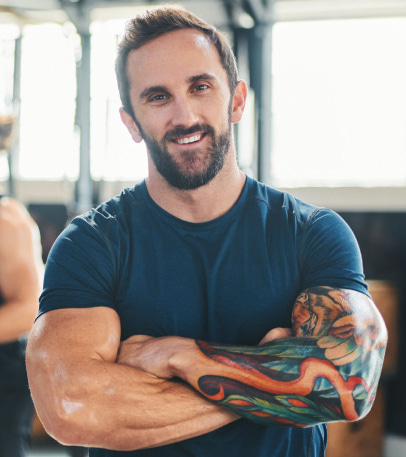
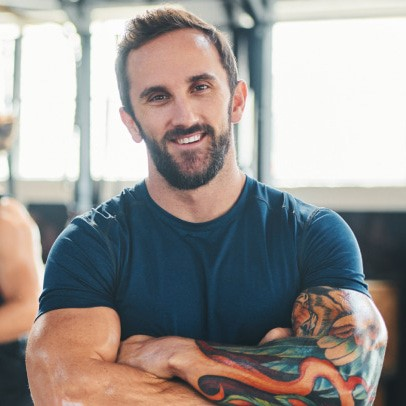
realizando diseño responsive

diff --git a/Entrenadores.html b/Entrenadores.html
@@ -5,7 +5,7 @@
   <meta charset="UTF-8">
   <meta name="viewport" content="width=device-width, initial-scale=1">
   <title>Entrenadores</title>
-  <link rel="stylesheet" href="styles.css">
+  <link rel="stylesheet" href="styleEntrenadores.css">
 
   <link href="https://cdn.jsdelivr.net/npm/bootstrap@5.2.3/dist/css/bootstrap.min.css" rel="stylesheet"
     integrity="sha384-rbsA2VBKQhggwzxH7pPCaAqO46MgnOM80zW1RWuH61DGLwZJEdK2Kadq2F9CUG65" crossorigin="anonymous">
@@ -51,25 +51,28 @@
 <br>
   <h2 style="text-align: center; color:grey;">Entrenadores</h2>
   <br>
-
-  <table style="margin: 0 auto;">
-      <td>
-        <div>
-          <a href="Perfil1.html">
-            <img src="img/trainer3.jpg" width="250px" height="250px" alt="">
-          </a>
-          <p style="color: white; text-align: center;">Juan Jose de Luque</p>
-        </div>     
-      </td>
-      <td>
-        <div class="ex1">
-          <a href="Perfil5.html">
-            <img src="img/fotoperfil.jpg" width="250px" height="250px" alt="">
-          </a>
-          <p style="color: white; text-align: center;">Blade Rocco Steeve Maverick</p>
-        </div>  
-      </td>
-  </table>
+  <div class="seccionTrainer">
+    <div class="row row-cols-1 row-cols-md-2 g-4">
+      <div class="col">
+        <div class="card">
+          <img src="img/trainer3.jpg" class="card-img-top" alt="...">
+          <div class="card-body">
+            <h5 class="card-title">Juan Jose de Luque</h5>
+            <p class="card-text">Entrenador de gimnasio apasionado y experimentado, está listo para ayudarte a alcanzar tus metas de fitness. Descubre cómo su enfoque personalizado y su compromiso pueden transformar tu vida.</p>
+          </div>
+        </div>
+      </div>
+      <div class="col">
+        <div class="card">
+          <img src="img/fotoperfil.jpg" class="card-img-top" alt="...">
+          <div class="card-body">
+            <h5 class="card-title">Blade Rocco Steeve Maverick</h5>
+            <p class="card-text">Entrenador de gimnasio con visión, está listo para llevarte al siguiente nivel de fitness. Su enfoque innovador y energía contagiosa te inspirarán a superar tus límites.</p>
+          </div>
+        </div>
+      </div>
+    </div>
+  </div>
 
 </body>
 <footer class="dark-footer">

diff --git a/styles.css b/styles.css
@@ -15,13 +15,18 @@ body {
   width: 100%;
 }
 
-.row-1{
-  padding: 5px;
+.row-1 {
+  padding-top: 10px;
+  padding-right: 5px;
+  padding-bottom: 5px;
+  padding-left: 5px;
+  border-radius: 8px;
 }
 
 .Contador {
-  text-align: center; /* Centra horizontalmente en la página */
-  margin-top: 10%; 
+  text-align: center;
+  /* Centra horizontalmente en la página */
+  margin-top: 9%;
   margin-left: 20vw;
   margin-right: 20vw;
   margin-bottom: 10vw;
@@ -40,6 +45,7 @@ body {
   background-color: white;
   margin: 10px;
   height: 80px;
+  border-radius: 10px;
 }
 
 .af {
@@ -58,4 +64,48 @@ body {
 
 .container {
   position: relative;
+}
+
+/*PANTALLAS DE CELULAR*/
+@media screen and (max-width:767px) {
+
+  body {
+    background-image: url('img/fondo.jpg');
+  }
+  main{
+    margin-top: 50%;
+    margin-bottom: 50%;
+  }
+  .Contador{
+    margin-left: 10vw;
+    margin-right: 10vw;
+    margin-bottom: 10vw;
+  }
+
+}
+
+/*PANTALLAS GRANDES*/
+@media screen and (min-width: 1800px) {
+
+  body {
+    background-image: url('img/fondo 2.jpg');
+  }
+  .Contador{
+    margin-left: 30vw;
+    margin-right: 30vw;
+    margin-bottom: 20vw;
+  }
+}
+
+/*PANTALLAS MEDIANAS*/
+@media screen and (min-width:768px) and (max-width:1799px) {
+
+  body {
+    background-image: url('img/fondo 2.jpg');
+  }
+  .Contador{
+    margin-left: 30vw;
+    margin-right: 30vw;
+    margin-bottom: 20vw;
+  }
 }

diff --git a/styleNosotros.css b/styleNosotros.css
@@ -1,6 +1,6 @@
 /* styles.css */
 body {
-  background-image: url('img/fondo 2.jpg');
+
   background-size: 100% 100%;
   background-repeat: no-repeat;
   display: flex;
@@ -48,6 +48,9 @@ body {
   .seccion1{
     padding: 7%;
   }
+  body {
+    background-image: url('img/fondo.jpg');
+  }
 }
 /*PANTALLAS GRANDES*/
 @media screen and (min-width: 1800px) {
@@ -57,6 +60,9 @@ body {
   .box p{
     font-size: 35px;
     margin-bottom: 60px;
+  }
+  body {
+    background-image: url('img/fondo 2.jpg');
   }
 }
 /*PANTALLAS MEDIANAS*/
@@ -70,6 +76,9 @@ body {
   }
   .seccion1{
     padding: 4%;
+  }
+  body {
+    background-image: url('img/fondo 2.jpg');
   }
 }
 

diff --git a/styleEntrenadores.css b/styleEntrenadores.css
@@ -1,0 +1,38 @@
+/* styles.css */
+body {
+  background-size: 100% 100%;
+  background-repeat: no-repeat;
+  display: flex;
+  flex-direction: column;
+  min-height: 100vh;
+}
+
+/*SECCION DE CUADRO DE ENTRENADORES*/
+
+.seccionTrainer{
+  margin: 10%;
+  
+}
+
+
+/*FOOTER*/
+
+.dark-footer {
+  color: #fff;
+  padding: 0px 0;
+  margin-top: auto;
+  width: 100%;
+}
+
+.footer-logo {
+  max-width: 100px;
+  /* Ajusta el tamaño máximo de la imagen */
+}
+
+.redes {
+  padding: 7px;
+}
+
+.container {
+  position: relative;
+}
